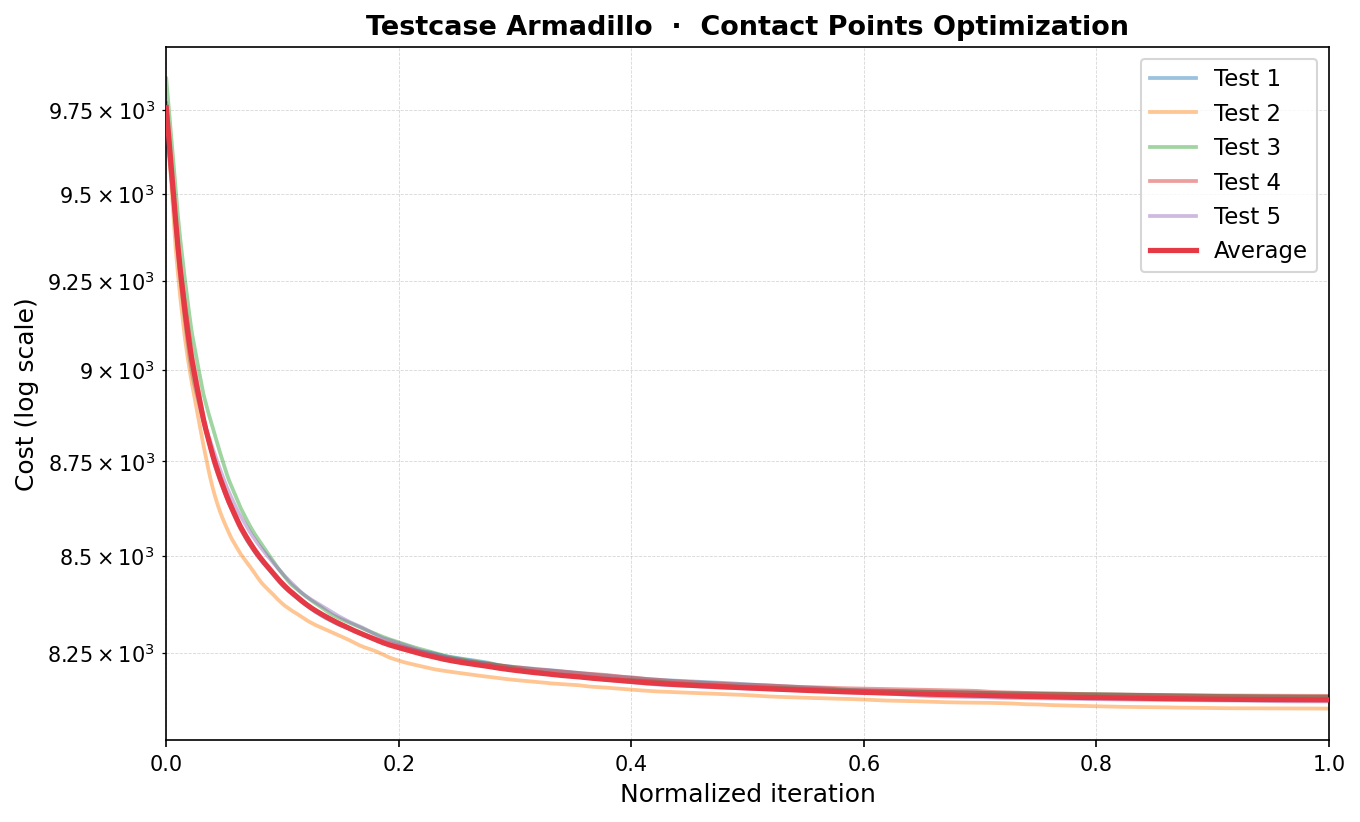
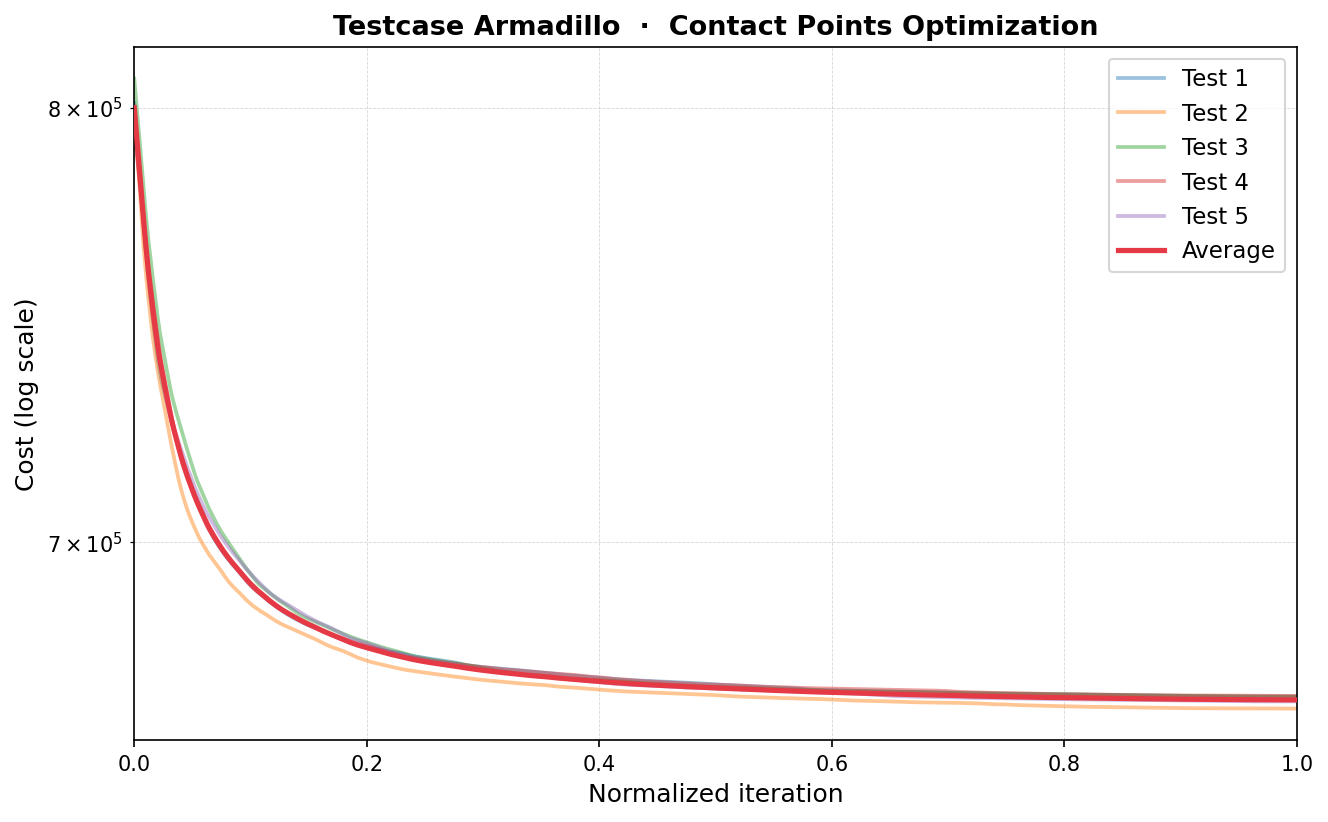
Improve charting script

diff --git a/test_results/visualize_advanced.py b/test_results/visualize_advanced.py
@@ -70,9 +70,9 @@ def interp_to_grid(x, y):
     return np.interp(GRID, x, y)
 
 
-def compute_average(files):
+def compute_sum(files):
     curves = [interp_to_grid(x, y) for f in files for x, y in [load_xy(f)] if x is not None]
-    return np.mean(curves, axis=0) if curves else None
+    return np.sum(curves, axis=0) if curves else None
 
 
 def run_colors(n):
@@ -123,9 +123,9 @@ for n in TEST_NUMBERS:
                 curves.append(interp_to_grid(x, y))
 
             if curves:
-                avg = np.mean(curves, axis=0)
-                ax.plot(GRID, avg, color=AVG_COLOR, linewidth=AVG_LW,
-                        label="Average", zorder=AVG_ZORDER)
+                sum = np.sum(curves, axis=0)
+                ax.plot(GRID, sum, color=AVG_COLOR, linewidth=AVG_LW,
+                        label="Total", zorder=AVG_ZORDER)
 
             apply_common_style(ax, f"{test_name}  ·  {subphase_label(sp)}")
             fname = f"{test_name}_{sp}.png"
@@ -148,12 +148,12 @@ for t in TEST_TYPES:
 
         number_avgs = []
         for i, n in enumerate(TEST_NUMBERS):
-            avg = compute_average(get_files(f"ES{n}{t}", sp))
-            if avg is None:
+            sum = compute_sum(get_files(f"ES{n}{t}", sp))
+            if sum is None:
                 continue
-            ax.plot(GRID, avg, color=NUMBER_COLORS(i / 10), linewidth=1.8,
+            ax.plot(GRID, sum, color=NUMBER_COLORS(i / 10), linewidth=1.8,
                     alpha=0.45, label=f"Test {n}")
-            number_avgs.append(avg)
+            number_avgs.append(sum)
 
         if number_avgs:
             grand = np.mean(number_avgs, axis=0)
